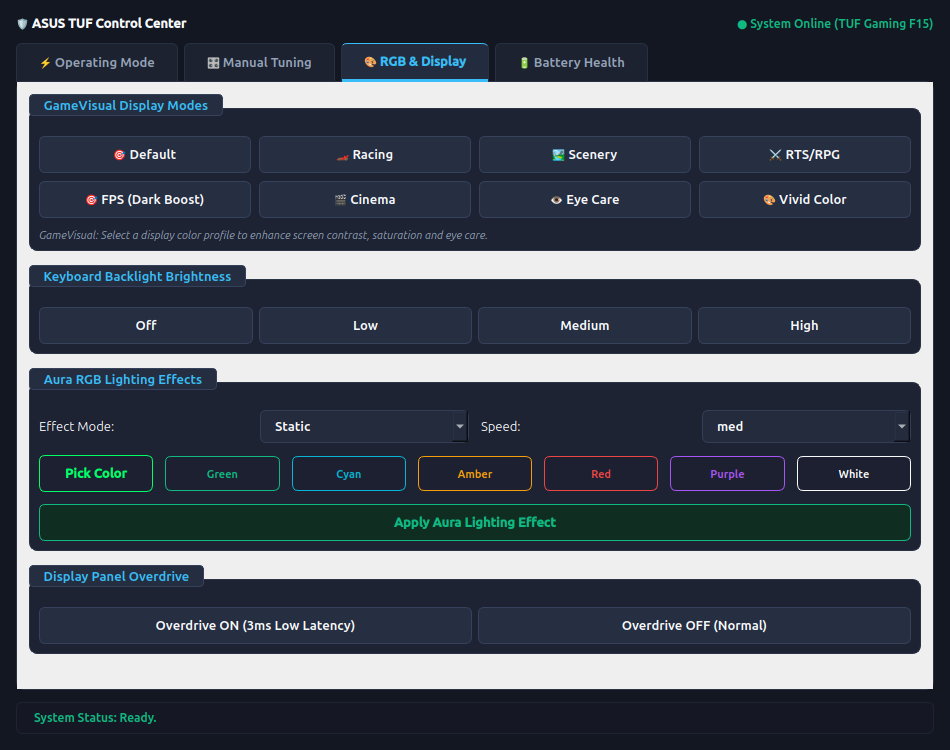
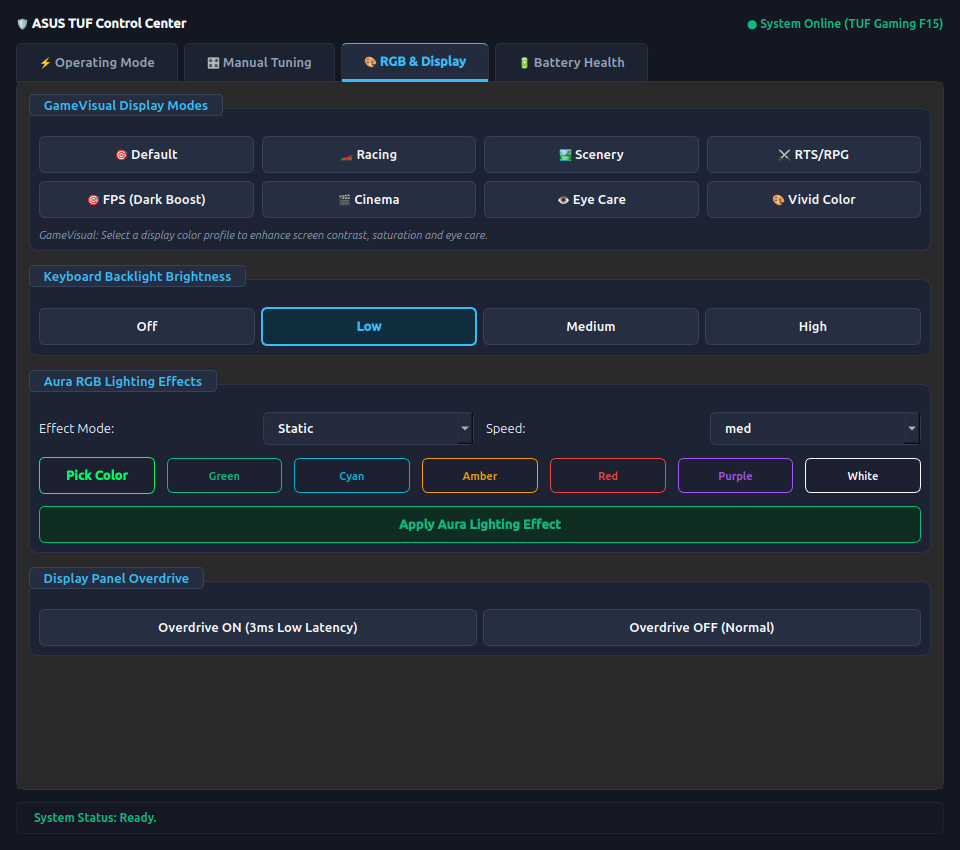
docs: Update README.md showcase with fresh screenshots for all 4 GUI tabs

Changed region(s): [[0.0, 0.0, 1.0, 0.92], [0.7937, 0.0, 0.9768, 0.0613], [0.0305, 0.9507, 0.1832, 0.9813]]

diff --git a/README.md b/README.md
@@ -1,26 +1,30 @@
 # 🛡 ASUS TUF Control Center (Linux)
 
-> A modern, fast, dark Cyberpunk Armoury Crate GUI for ASUS TUF & ROG Gaming Laptops on Linux (Ubuntu/Debian/Arch/Fedora).
+> A modern, fast, high-contrast Armoury Crate GUI for ASUS TUF & ROG Gaming Laptops on Linux (Ubuntu/Debian/Arch/Fedora).
 
-![ASUS TUF Control Center UI](screenshots/operating_mode.png)
+![ASUS TUF Control Center UI](screenshots/gpu_highlight.png)
 
 ---
 
 ## ❓ The Problem & Why This Exists
 
-If you own an ASUS TUF or ROG laptop on Linux, you know that `asusctl` and `supergfxctl` provide amazing terminal controls, but typing terminal commands every time you want to switch fan profiles, check GPU temperatures, or limit battery charge is messy and tedious. 
+If you own an ASUS TUF or ROG laptop on Linux, you know that `asusctl` and `supergfxctl` provide amazing terminal controls, but typing terminal commands every time you want to switch fan profiles, check GPU temperatures, adjust GameVisual display color profiles, or edit fan curves is tedious. 
 
 Furthermore, `rog-control-center` frequently panics on modern Ubuntu releases (due to Tokio async runtime conflicts).
 
-**ASUS TUF Control Center** was created to solve this exact problem: giving you a clean, sleek 1-click GUI that matches **Armoury Crate** operating modes, WhisperMode 2.0 quiet gaming, and physical hardware key integration—open-sourced for the Linux ASUS community!
+**ASUS TUF Control Center** was created to solve this exact problem: giving you a clean, sleek 1-click GUI that matches **Armoury Crate** operating modes, WhisperMode 2.0 quiet gaming, GameVisual display modes, interactive Fan Curve tuning, and physical hardware key integration—open-sourced for the Linux ASUS community!
 
 ---
 
 ## 📸 Screenshots & Showcase
 
-| 🎮 Armoury Crate Operating Modes & Telemetry | 🌈 RGB Lighting & Display Overdrive |
+| 🎮 Armoury Crate Operating Modes & Telemetry | 🌀 Custom Fan Curve Graph Editor & Power Limits |
 | :---: | :---: |
-| ![Operating Modes & Telemetry](screenshots/operating_mode.png) | ![RGB & Display Controls](screenshots/rgb_display.png) |
+| ![Operating Modes & GPU Mode Switcher](screenshots/gpu_highlight.png) | ![Custom Fan Curve Graph Editor](screenshots/fan_curve_scrolled.png) |
+
+| 🎨 GameVisual Color Profiles & Aura RGB | 🔋 Battery Health & Eco Charge Limit |
+| :---: | :---: |
+| ![GameVisual Color Profiles & Aura RGB](screenshots/gamevisual.png) | ![Battery Health Care](screenshots/battery_health.png) |
 
 ---
 
@@ -36,8 +40,17 @@ Furthermore, `rog-control-center` frequently panics on modern Ubuntu releases (d
   - **On AC Charger**: Auto-applies **Turbo Mode** + **144Hz Refresh Rate** + Unlimited FPS.
   - **On Battery Power**: Auto-applies **Silent Mode (Whisper 40 FPS)** + **60Hz Refresh Rate** for maximum battery life.
 
+- **🌀 Custom Fan Curve Graph Editor**:
+  - 8-point interactive temperature vs PWM % curve vector graph canvas (`FanCurveGraphWidget`).
+  - Presets: *Stealth Quiet*, *Balanced Ramp*, *Aggressive Max Cooling*, *Reset Defaults*.
+  - Dual CPU & GPU fan control with `asusd` `/etc/asusd/fan_curves.ron` integration.
+
+- **🎨 GameVisual Display Color Profiles**:
+  - 1-click Armoury Crate visual modes: **Default**, **Racing**, **Scenery**, **RTS/RPG**, **FPS (Dark Boost)**, **Cinema**, **Eye Care (Blue Light Filter)**, **Vivid Color**.
+  - Dynamic `xrandr` gamma & brightness tuning for ASUS laptop screens.
+
 - **⚡ GPU Graphics Mode Switcher**:
-  - Switch between **Integrated (iGPU)**, **Hybrid (Optimus)**, and **Dedicated (MUX)** graphics via `supergfxctl`.
+  - Switch between **Integrated (iGPU)**, **Hybrid (Optimus)**, and **Dedicated (MUX)** graphics via `supergfxctl` with active mode button selection highlighting.
 
 - **🌈 RGB Aura Lighting & Screen Overdrive**:
   - Keyboard backlight brightness levels (Off, Low, Medium, High).
